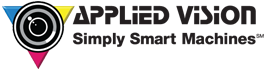
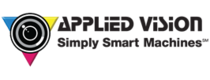
Experience cleanup, React menu image added

diff --git a/index.html b/index.html
@@ -83,15 +83,15 @@
         <h2 class="heading">Experience</h2>
         <div id="experience-timeline">
             <div data-date="April 2016 – Current">
-                <img src="images/AVC2.png" />
+                <img src="images/avc.png" />
                 <!-- <h3>Applied Vision</h3> -->
                 <h4>Software Developer</h4>
                 <p>
                     <ul>
-                        <li>Created anomaly detection algorithms for high-speed inspection systems.</li>
-                        <li>Redesigned and simplified an intimidating user interface to improve operator ease of use.</li>
-                        <li>Rapid development and bug fixes during trials against competition.</li>
-                        <li>Designed unit tests through test-driven development for safe, clean code.</li>
+                        <li>Created anomaly detection algorithms for high-speed inspection systems</li>
+                        <li>Redesigned and simplified an intimidating user interface</li>
+                        <li>Rapid development and bug fixes during trials against competition</li>
+                        <li>Designed unit tests through test-driven development for clean safe code</li>
                     </ul>
                 </p>
             </div>
@@ -102,9 +102,9 @@
                 <!-- <h3>Event 38 Unmanned Systems</h3> -->
                 <p>
                     <ul>     
-                        <li>Developed multiple image processing algorithms that delivered crop health, terrain and surveying analysis.</li>
-                        <li>Managed the multirotor product package from testing/software development to customer service and sales.</li>
-                        <li>Created camera scripts that made cameras trigger from different UAV applications.</li>
+                        <li>Developed image-processing algorithms for crop health and surveying analysis</li>
+                        <li>Managed multirotor product package from testing/software/product feedback</li>
+                        <li>Created camera scripts that allowed cameras to trigger from different UAVs</li>
                     </ul>
                 </p>
             </div>
@@ -132,7 +132,7 @@
             <div class="row">
                 <div class="project shadow-large">
                     <div class="project-image">
-                        <img src="images/project.jpg" />
+                        <img src="images/react-menu.jpg" />
                     </div>
                     <!-- End .project-image -->
                     <div class="project-info">
@@ -253,19 +253,16 @@
                 <div class="col-sm-5 social">
                     <ul>
                         <li>
-                            <a href="#"><i class="fa fa-github" aria-hidden="true"></i></a>
+                            <a href="https://github.com/brandonflint"><i class="fa fa-github" aria-hidden="true"></i></a>
                         </li>
                         <li>
-                            <a href="#"><i class="fa fa-stack-overflow" aria-hidden="true"></i></a>
+                            <a href="https://www.facebook.com/Bflint22"><i class="fa fa-facebook" aria-hidden="true"></i></a>
                         </li>
                         <li>
-                            <a href="#"><i class="fa fa-facebook" aria-hidden="true"></i></a>
+                            <a href="https://twitter.com/BFlint622"><i class="fa fa-twitter" aria-hidden="true"></i></a>
                         </li>
                         <li>
-                            <a href="#"><i class="fa fa-twitter" aria-hidden="true"></i></a>
-                        </li>
-                        <li>
-                            <a href="#"><i class="fa fa-google-plus" aria-hidden="true"></i></a>
+                            <a href="https://plus.google.com/u/0/103442944855003197972"><i class="fa fa-google-plus" aria-hidden="true"></i></a>
                         </li>
                     </ul>
                 </div>

diff --git a/css/styles.css b/css/styles.css
@@ -453,6 +453,7 @@ footer {
 
 .vtimeline-content img {
 	display: inline-grid;
+	margin: 0 0 0px 20px
 }
 
 .vtimeline-content h4 {
@@ -467,6 +468,12 @@ footer {
   color: #74808a;
   font-size: 0.9em;
   margin: 0
+}
+
+.vtimeline-content li {
+  color: #74808a;
+  font-size: 1em;
+  margin: 8px
 }
 
 .vtimeline-point {
